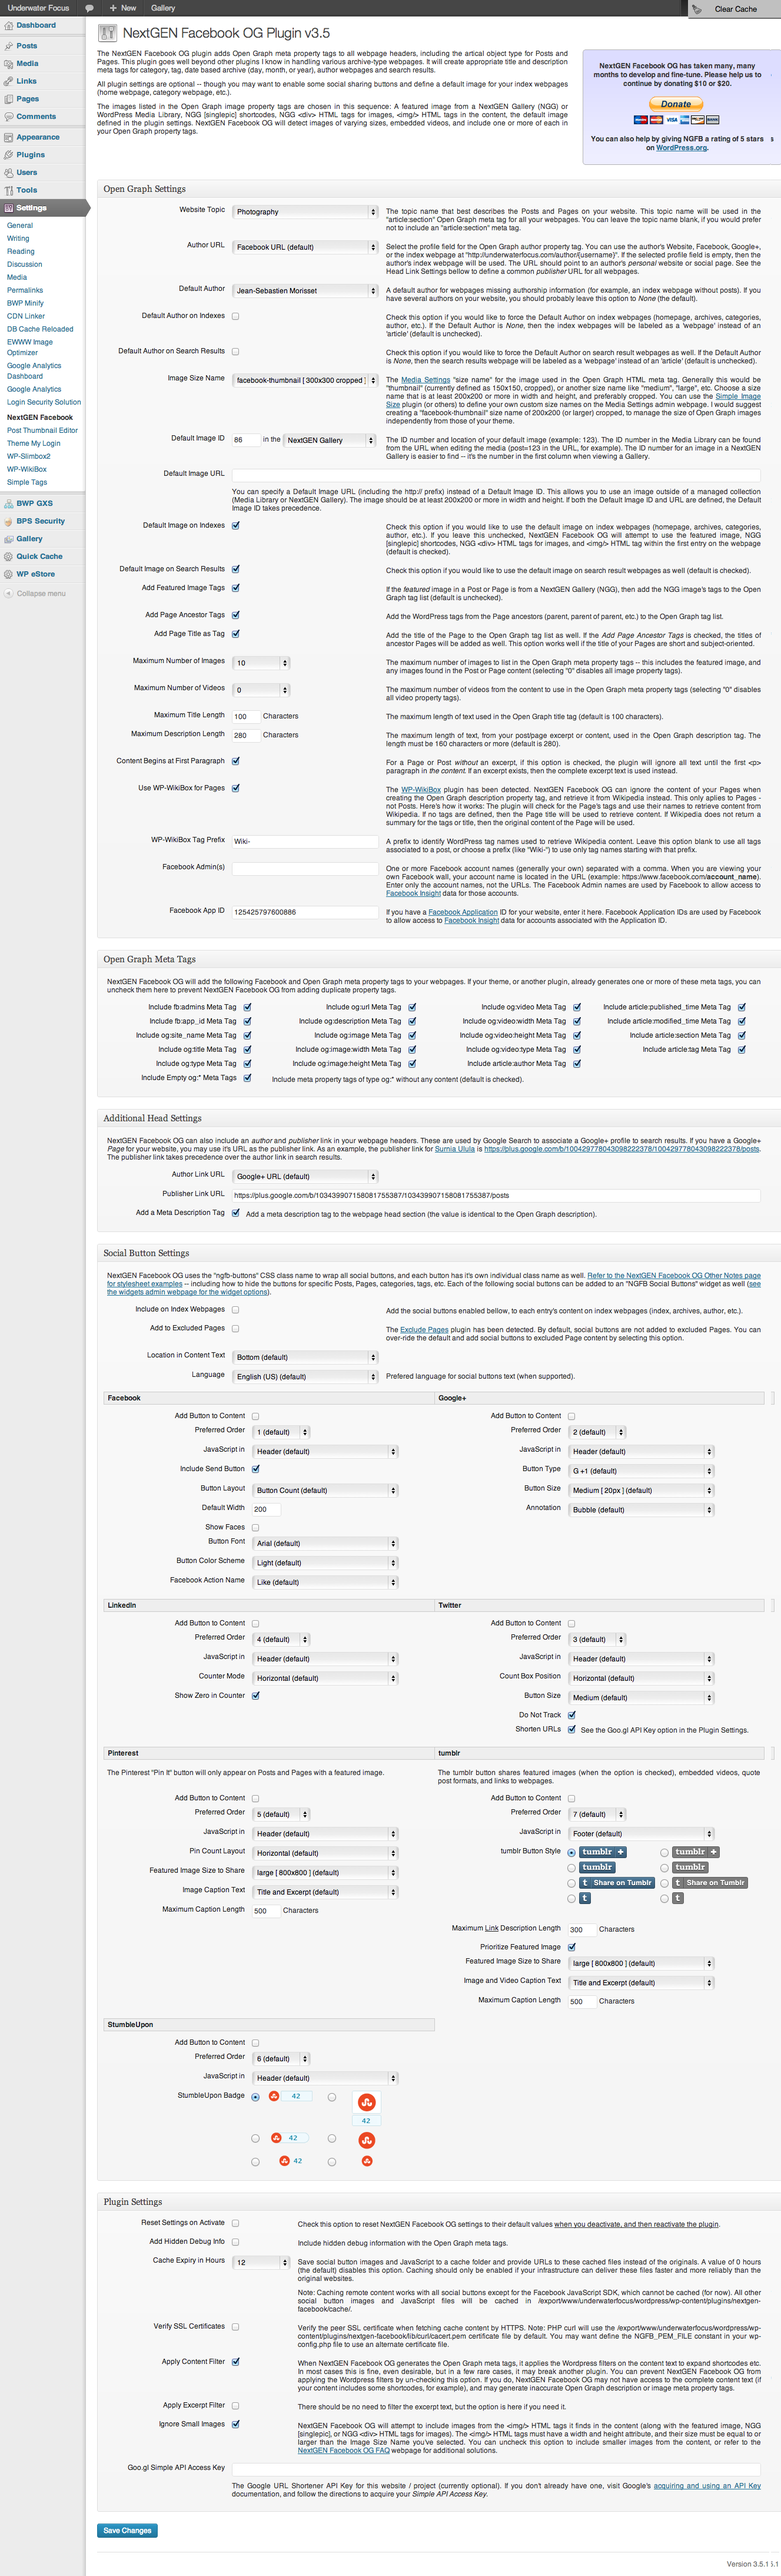
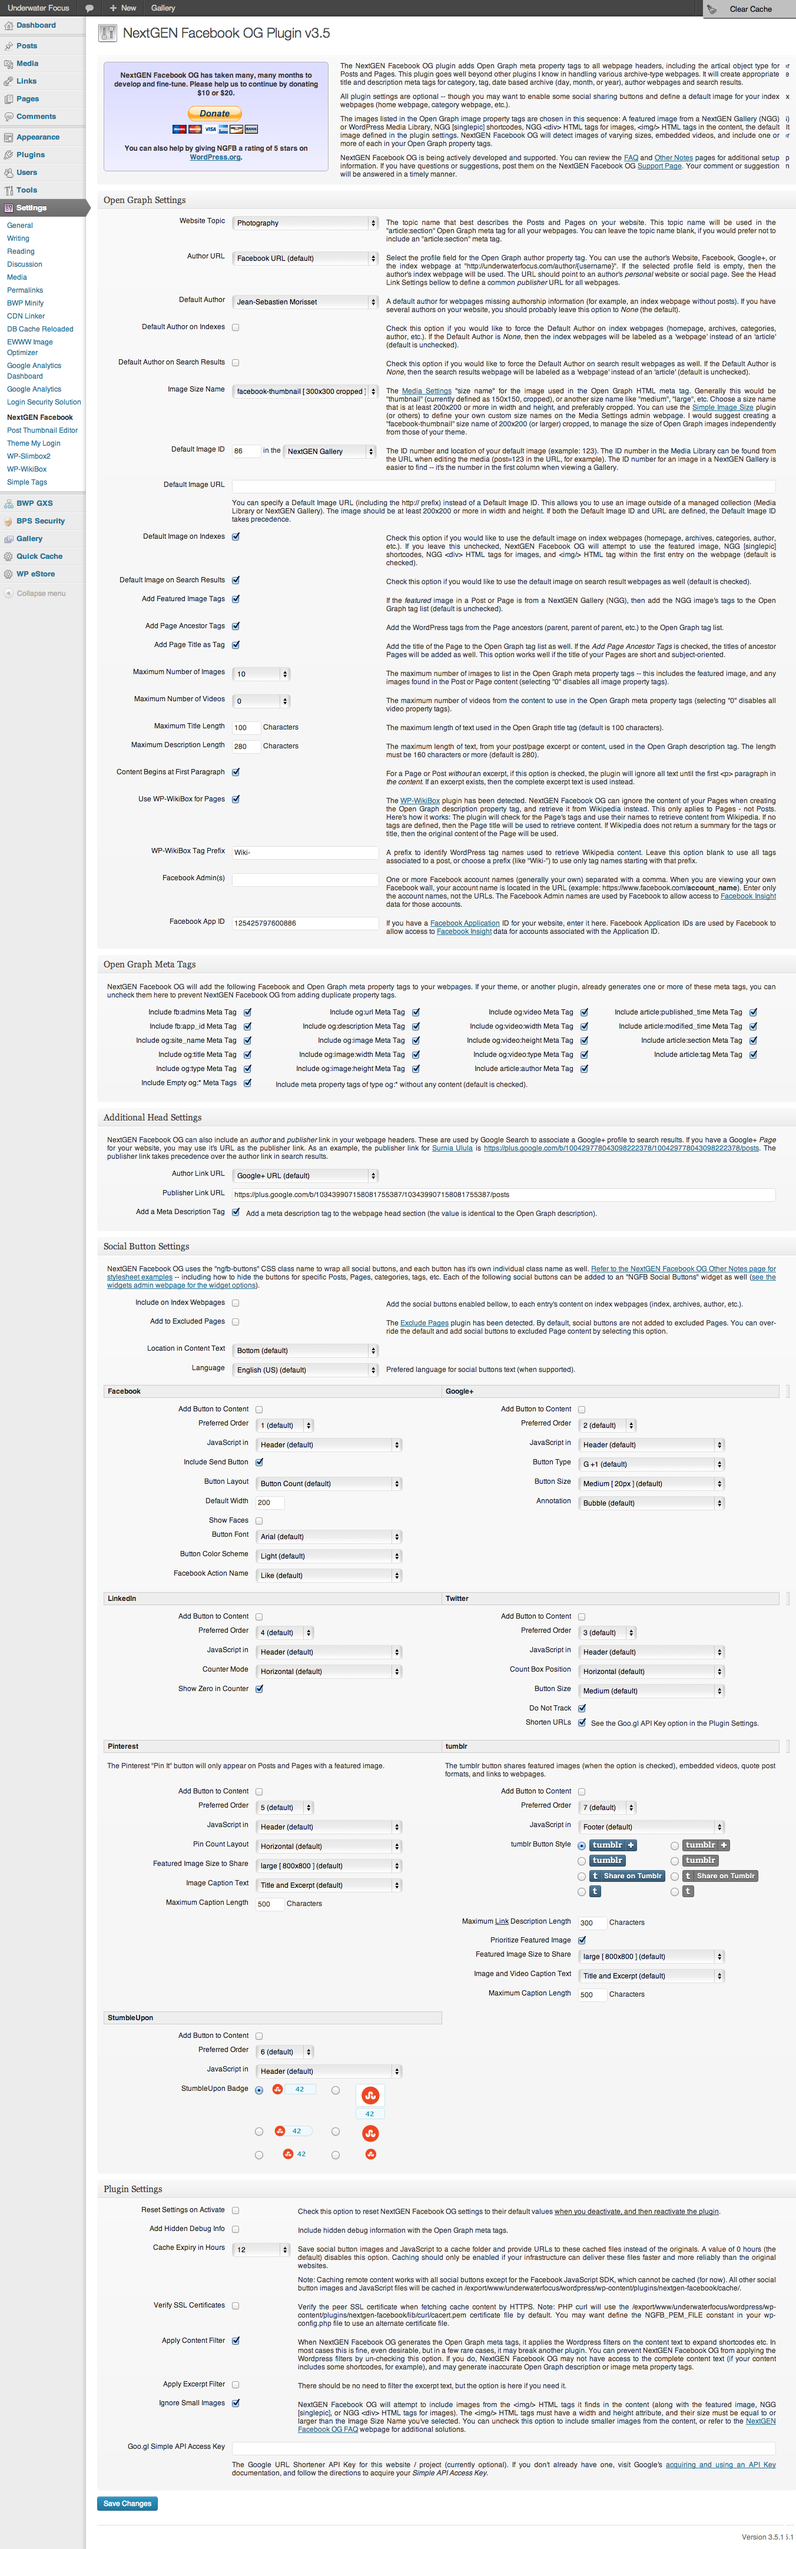
admin text and screenshot update
git-svn-id: https://plugins.svn.wordpress.org/nextgen-facebook/trunk@668570 b8457f37-d9ea-0310-8a92-e5e31aec5664

diff --git a/lib/admin.php b/lib/admin.php
@@ -208,13 +208,19 @@ if ( ! class_exists( 'ngfbAdmin' ) ) {
 				}
 				.btn_wizard_column { white-space:nowrap; }
 				.btn_wizard_example { display:inline-block; width:155px; }
+				.postbox {
+					-webkit-border-radius:5px;
+					border-radius:5px;
+					border:1px solid transparent;
+					margin:0 0 10px 0;
+				}
 				.donatebox {
-					float:right;
+					float:left;
 					display:block;
 					font-weight:bold;
-					width:300px;
-					margin:0 0 15px 25px;
-					padding:10px;
+					width:350px;
+					margin:0 20px 10px 0;
+					padding:5px 15px 5px 15px;
 					color:#333;
 					background:#eeeeff;
 					background-image: -webkit-gradient(linear, left bottom, left top, color-stop(7%, #eeeeff), color-stop(77%, #ddddff));
@@ -240,6 +246,9 @@ if ( ! class_exists( 'ngfbAdmin' ) ) {
 			<div class="icon32" id="icon-options-general"><br></div>
 			<h2><?php echo NGFB_FULLNAME, " Plugin v", $ngfb->version; ?></h2>
 	
+			<div class="metabox-holder">
+			<div class="postbox">
+			<div class="inside">	
 			<div class="donatebox">
 			<p>NextGEN Facebook OG has taken many, many months to develop and fine-tune. Please help us to continue by donating $10 or $20.</p>
 <form action="https://www.paypal.com/cgi-bin/webscr" method="post" id="donate">
@@ -249,18 +258,19 @@ if ( ! class_exists( 'ngfbAdmin' ) ) {
 <input type="image" src="https://www.paypalobjects.com/en_US/i/btn/btn_donateCC_LG.gif" border="0" name="submit" alt="PayPal - The safer, easier way to pay online!">
 <img alt="" border="0" src="https://www.paypalobjects.com/en_US/i/scr/pixel.gif" width="1" height="1">
 </form>
-			<p>You can also help by giving NGFB a rating of 5 stars on <a href="http://wordpress.org/support/view/plugin-reviews/nextgen-facebook">WordPress.org</a>.</p>
+			<p>You can also help by giving NGFB a rating of 5 stars on <a href="http://wordpress.org/support/view/plugin-reviews/nextgen-facebook" target="_blank">WordPress.org</a>.</p>
 			</div>
 
 			<p>The NextGEN Facebook OG plugin adds Open Graph meta property tags to all webpage headers, including the artical object type for Posts and Pages. This plugin goes well beyond other plugins I know in handling various archive-type webpages. It will create appropriate title and description meta tags for category, tag, date based archive (day, month, or year), author webpages and search results.</p>
-
 			<p>All plugin settings are optional -- though you may want to enable some social sharing buttons and define a default image for your index webpages (home webpage, category webpage, etc.).</p>
-	
 			<p>The images listed in the Open Graph image property tags are chosen in this sequence: A featured image from a NextGEN Gallery (NGG) or WordPress Media Library, NGG [singlepic] shortcodes, NGG &lt;div&gt; HTML tags for images, &lt;img/&gt; HTML tags in the content, the default image defined in the plugin settings. NextGEN Facebook OG will detect images of varying sizes, embedded videos, and include one or more of each in your Open Graph property tags.</p>
 
-			<div style="clear:both;"></div>
+			<p>NextGEN Facebook OG is being actively developed and supported. You can review the <a href="http://wordpress.org/extend/plugins/nextgen-facebook/faq/" target="_blank">FAQ</a> and <a href="http://wordpress.org/extend/plugins/nextgen-facebook/other_notes/" target="_blank">Other Notes</a> pages for additional setup information. If you have questions or suggestions, post them on the NextGEN Facebook OG <a href="http://wordpress.org/support/plugin/nextgen-facebook">Support Page</a>. Your comment or suggestion will be answered in a timely manner.</p>
 
-			<div class="metabox-holder">
+			<div style="clear:both;"></div>
+			</div>
+			</div>
+
 			<form name="ngfb" method="post" action="options.php">
 			<?php
 				settings_fields( 'ngfb_plugin_options' );
